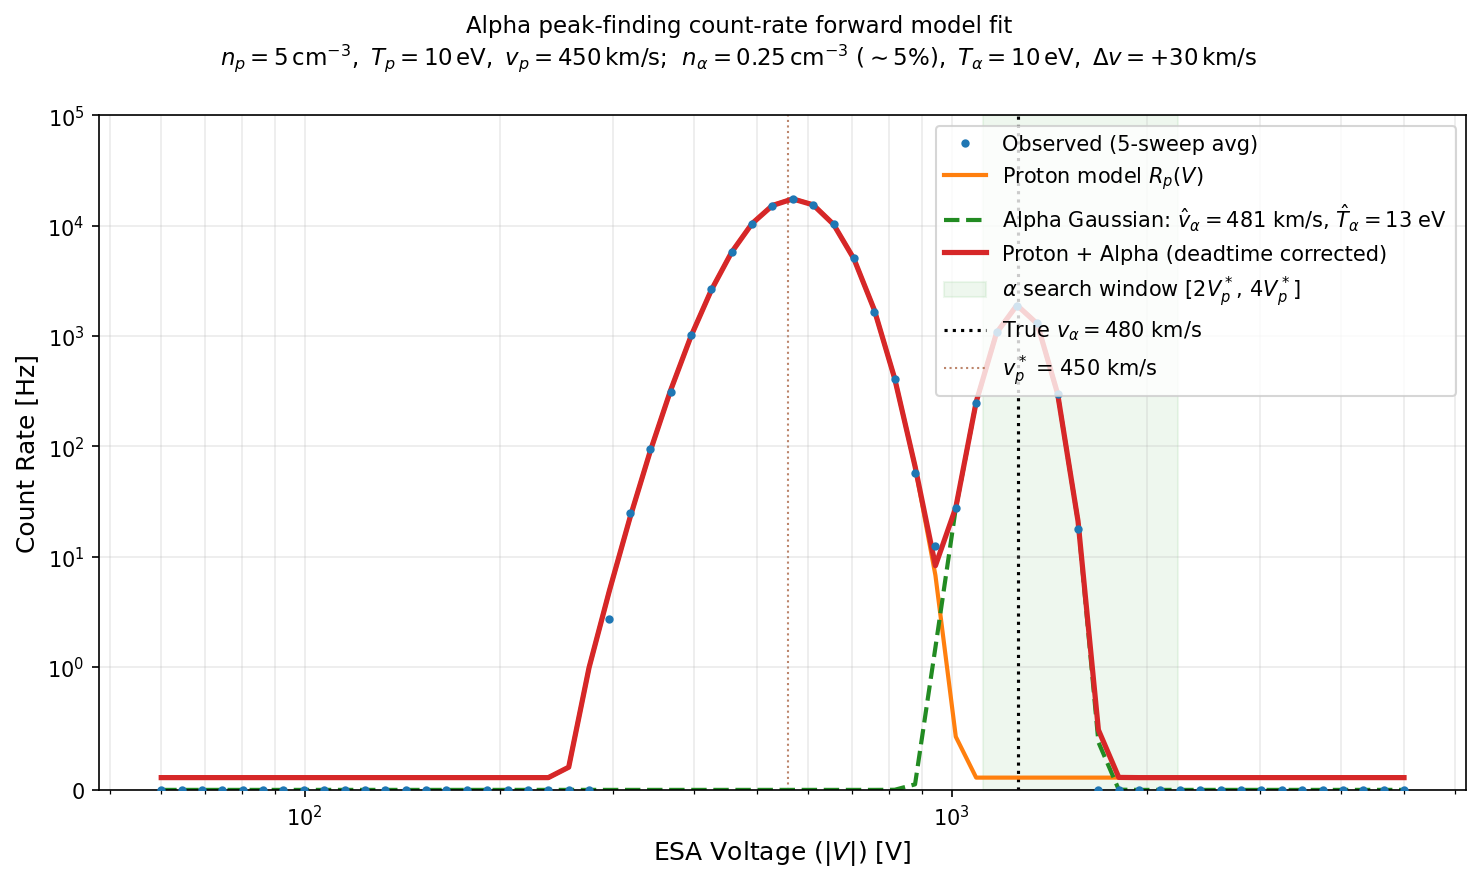
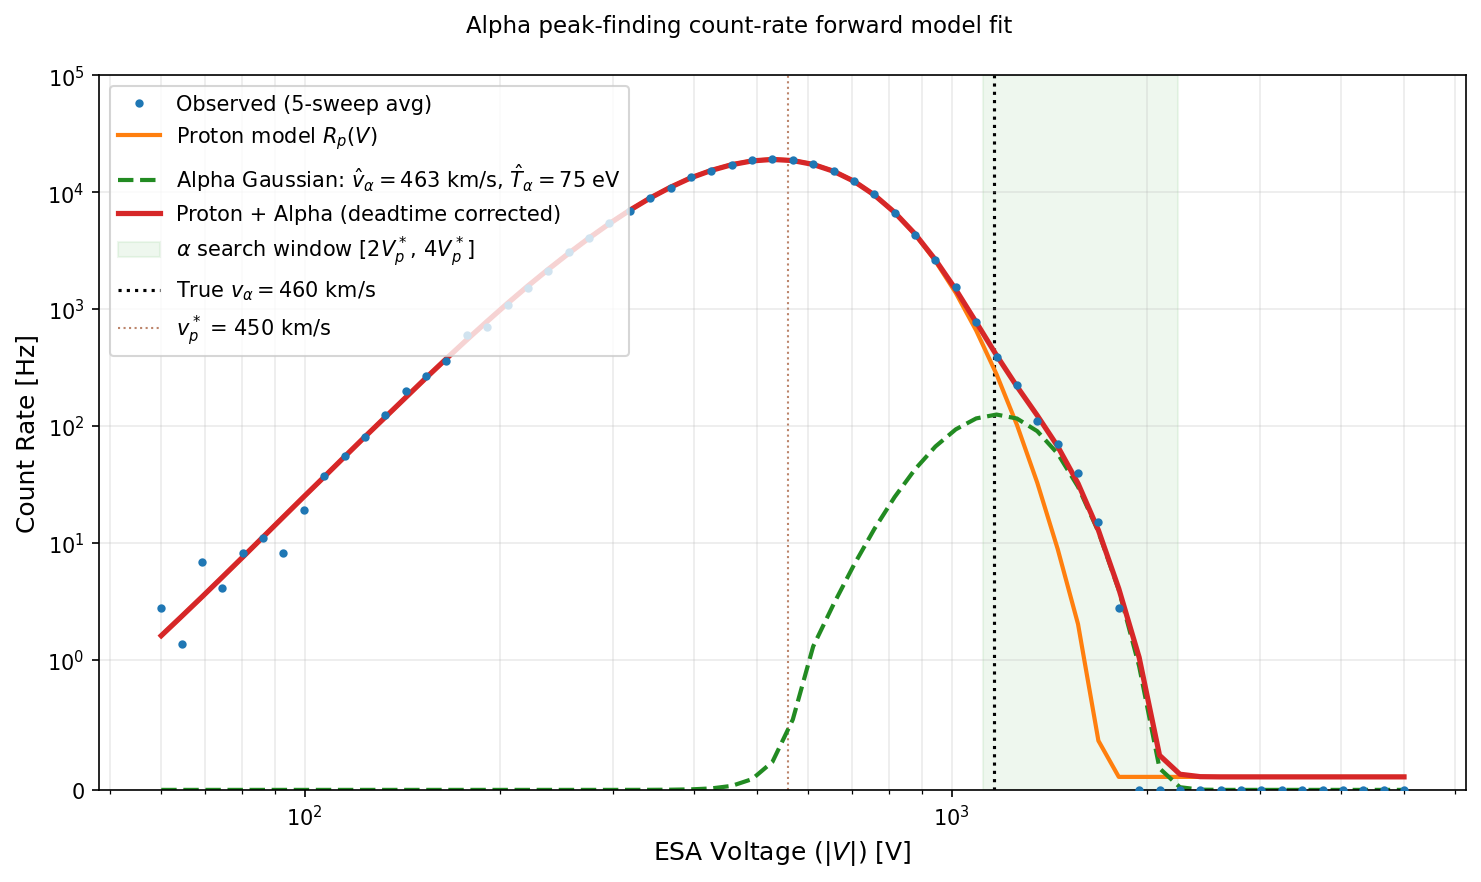
show a more difficult case

diff --git a/docs/swapi/figure_src/plot_alpha_peak_finding.py b/docs/swapi/figure_src/plot_alpha_peak_finding.py
@@ -67,10 +67,10 @@ _SPIN_S = 15.0
 _R_BASE = np.array([[0.0, 1.0, 0.0], [-1.0, 0.0, 0.0], [0.0, 0.0, 1.0]])
 
 # Spectrum parameters.
-_N_P, _T_P = 5.0, 10.0
+_N_P, _T_P = 5.0, 50.0
 _V_P_RTN = np.array([450.0, 0.0, 0.0])
-_N_A, _T_A = 0.25, 10.0  # ~5% abundance, same temperature as protons
-_DELTA_V = 30.0
+_N_A, _T_A = 0.05, 60.0  # ~4% abundance, same temperature as protons
+_DELTA_V = 10.0
 _B_HAT = np.array([1.0, 0.0, 0.0])
 _V_A_RTN = _V_P_RTN + _DELTA_V * _B_HAT
 _VOLTAGES = np.geomspace(60.0, 5000.0, _N_BINS)[::-1]
@@ -193,9 +193,7 @@ def main():
     # ------------------------------------------------------------------
     fig, ax = plt.subplots(1, 1, figsize=(10, 6))
     fig.suptitle(
-        "Alpha peak-finding count-rate forward model fit\n"
-        r"$n_p=5\,\mathrm{cm}^{-3},\ T_p=10\,\mathrm{eV},\ v_p=450\,\mathrm{km/s}$;  "
-        r"$n_\alpha=0.25\,\mathrm{cm}^{-3}\ (\sim 5\%),\ T_\alpha=10\,\mathrm{eV},\ \Delta v=+30\,\mathrm{km/s}$",
+        "Alpha peak-finding count-rate forward model fit",
         fontsize=11,
     )
 
@@ -273,7 +271,7 @@ def main():
     ax.set_xlabel("ESA Voltage ($|V|$) [V]", fontsize=12)
     ax.set_ylabel("Count Rate [Hz]", fontsize=12)
     ax.set_ylim(0, 1e5)
-    ax.legend(fontsize=10, loc="upper right")
+    ax.legend(fontsize=10, loc="upper left")
     ax.grid(True, which="both", alpha=0.25)
 
     fig.tight_layout()
